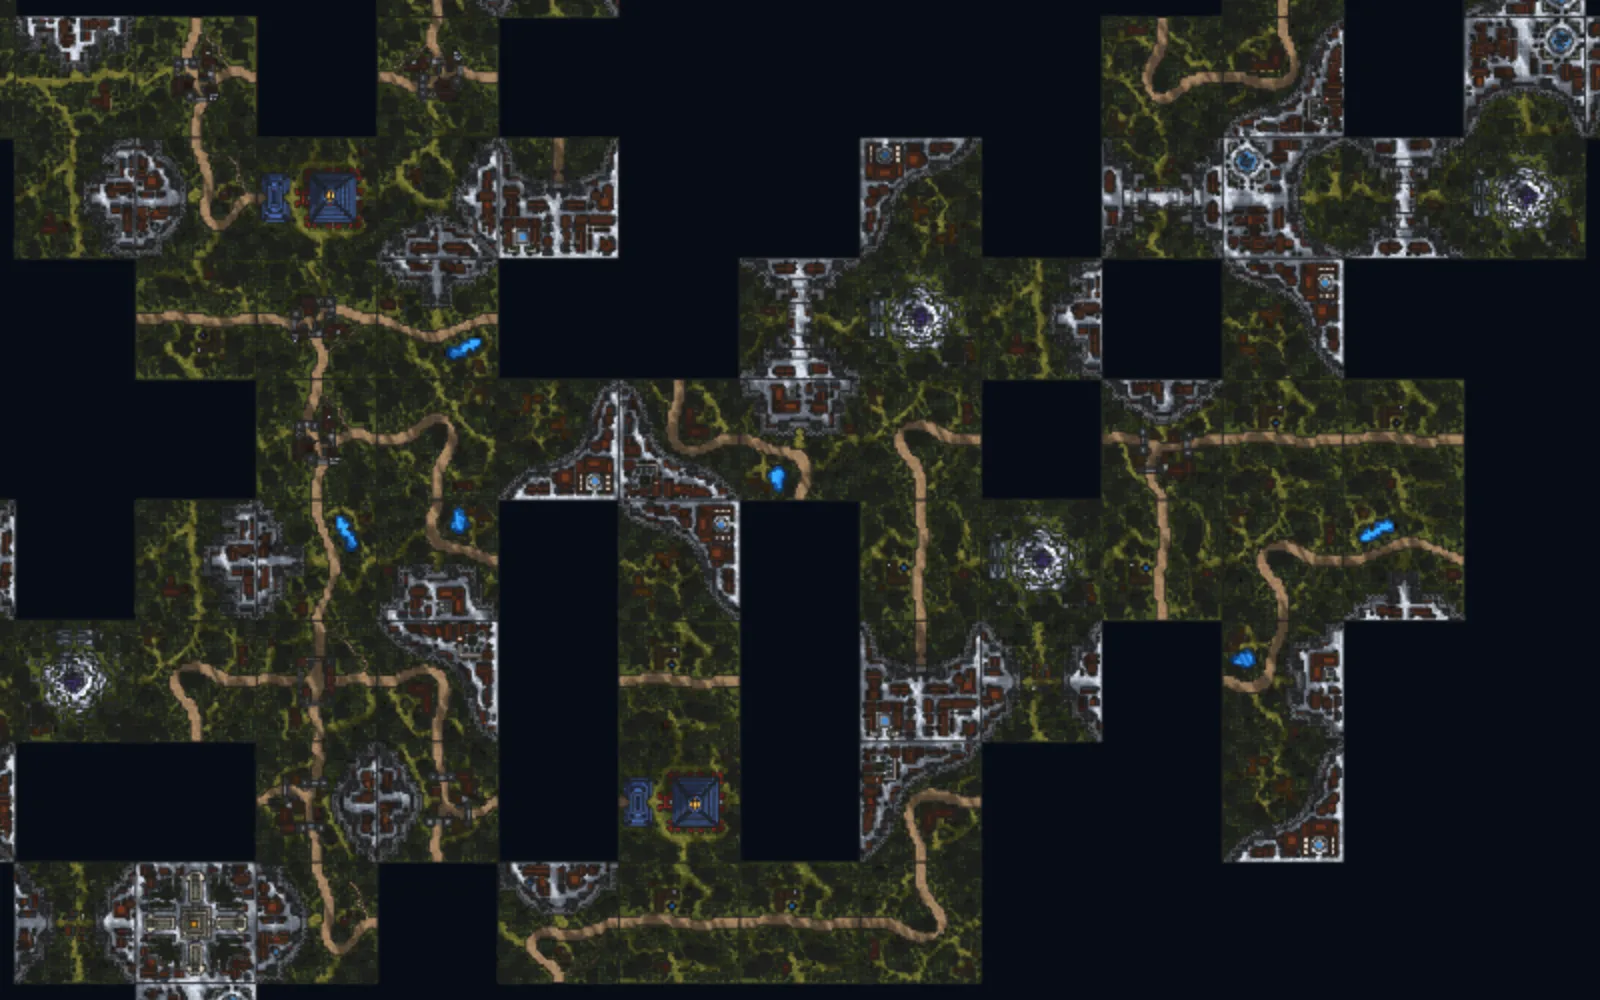
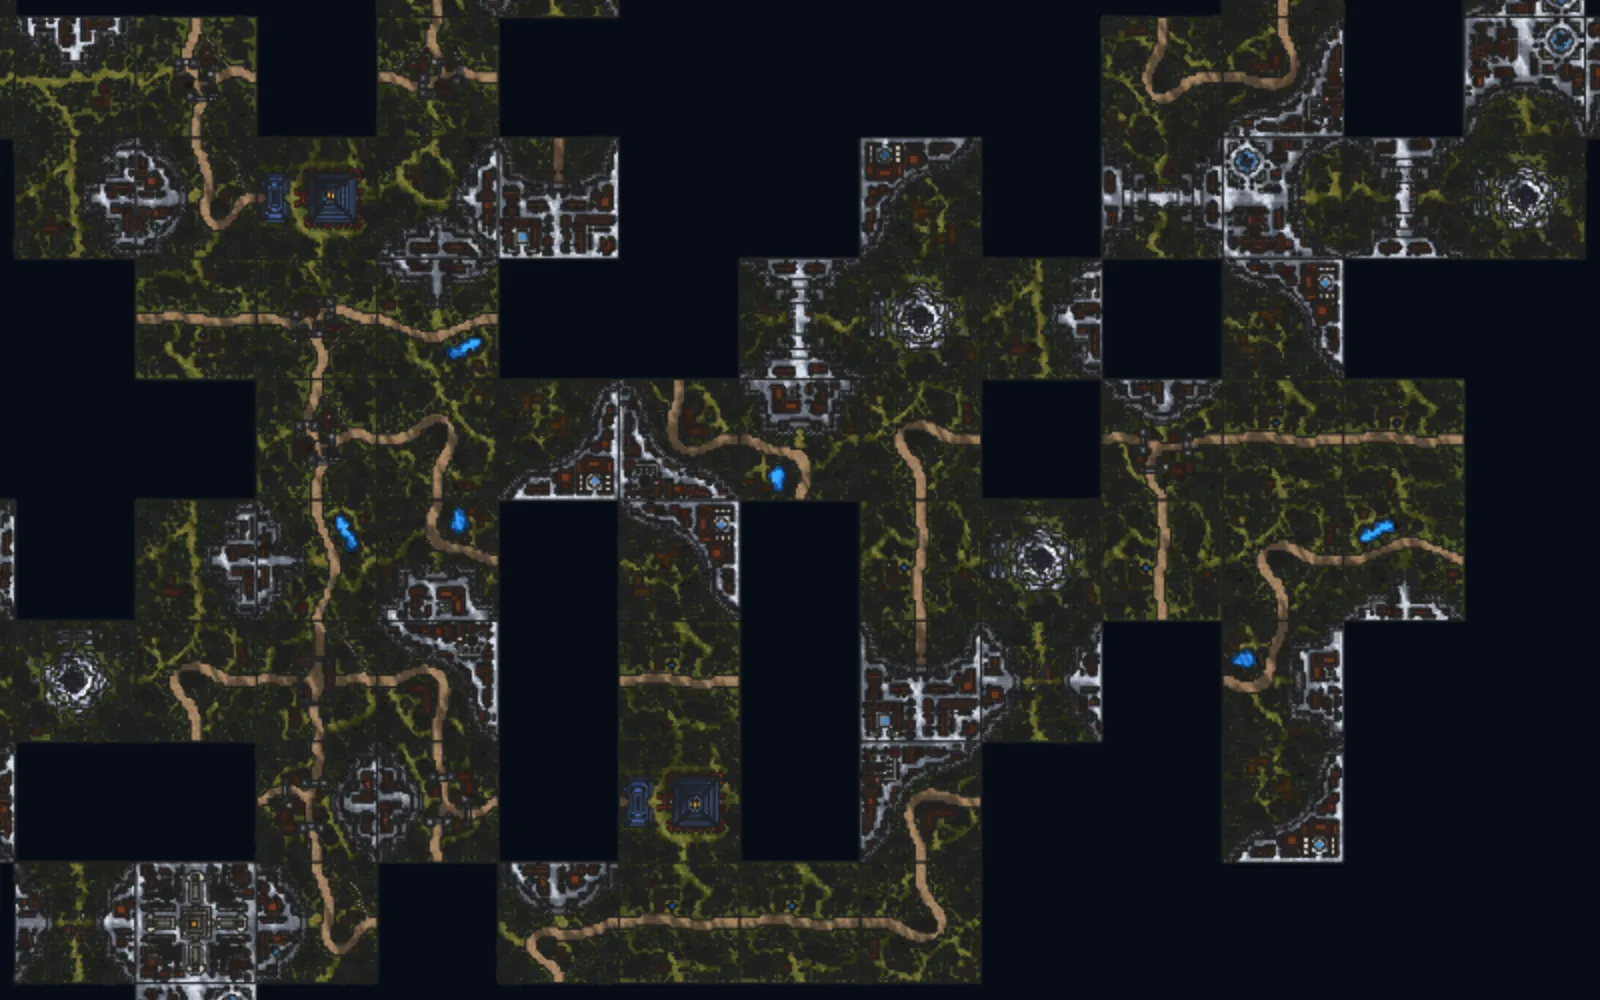
R-VIS: outlines off at 44 px a tile and fully on at 60 (PM ruling: shown at a phone's opening view); captures retaken

diff --git a/packages/app/src/stories/renderer/outlines-comparison.stories.tsx b/packages/app/src/stories/renderer/outlines-comparison.stories.tsx
@@ -137,7 +137,7 @@ const VIS_ROWS: Row[] = [
   {
     key: "desk-default",
     title: "Desktop, the opening view (a tile about 60 px)",
-    note: "1440 x 900 at DPR 2, distance 240 straight down; the centre 800 x 500 CSS px at 1:1. Before: diagonal shadow-acne bands in every lit face and 1 px black lines at 16 %. After: a flat tint per face, and dark grey hairlines at 69 % (off at 52 px a tile, fully on at 64).",
+    note: "1440 x 900 at DPR 2, distance 240 straight down; the centre 800 x 500 CSS px at 1:1. Before: diagonal shadow-acne bands in every lit face and 1 px black lines at 16 %. After: a flat tint per face, and dark grey hairlines, fully on (off at 44 px a tile, fully on at 60).",
     captures: [
       { label: "Before (main)", src: visBeforeDeskDefault },
       { label: "After (R-VIS)", src: visAfterDeskDefault },
@@ -158,8 +158,8 @@ const VIS_ROWS: Row[] = [
   },
   {
     key: "desk-out",
-    title: "Desktop, zoomed out: the outlines vanish (a tile 48 px)",
-    note: "Distance 300, tilted: under the 52 px off size, so no outlines either side; only the shading changes.",
+    title: "Desktop, fully zoomed out (a tile 48 px)",
+    note: "Distance 300, tilted, the farthest: the outlines are at 27 % here (off at 44 px, which a 900 px high window never reaches).",
     captures: [
       { label: "Before (main)", src: visBeforeDeskOut },
       { label: "After (R-VIS)", src: visAfterDeskOut },
@@ -170,7 +170,7 @@ const VIS_ROWS: Row[] = [
   {
     key: "m360-default",
     title: "360 px wide, the opening view (a tile about 52 px)",
-    note: "360 x 780 at DPR 3, distance 240; the centre 360 x 450 CSS px at 1:1. A phone's shorter viewport makes a tile 52 px wide here: the outlines are at the off size (2 %), so in effect none.",
+    note: "360 x 780 at DPR 3, distance 240; the centre 360 x 450 CSS px at 1:1. A phone's shorter viewport makes a tile 52 px wide here: the outlines show at 52 % (off at 44 px a tile, fully on at 60).",
     captures: [
       { label: "Before (main)", src: visBeforeM360Default },
       { label: "After (R-VIS)", src: visAfterM360Default },
@@ -191,8 +191,8 @@ const VIS_ROWS: Row[] = [
   },
   {
     key: "m360-out",
-    title: "360 px wide, zoomed out (a tile 42 px)",
-    note: "Distance 300, tilted: no outlines either side.",
+    title: "360 px wide, zoomed out: the outlines vanish (a tile 42 px)",
+    note: "Distance 300, tilted: under the 44 px off size, so no outlines either side.",
     captures: [
       { label: "Before (main)", src: visBeforeM360Out },
       { label: "After (R-VIS)", src: visAfterM360Out },
@@ -244,6 +244,6 @@ export const BeforeAndAfter: Story = {};
 
 /**
  * R-VIS (headless Chrome on the Mac's GPU, ANGLE Metal): the shading's acne removed by the shadow map's biases, and the
- * outlines as voxel-width, antialiased, dark grey strokes fading between 52 and 64 px a tile.
+ * outlines as voxel-width, antialiased, dark grey strokes fading between 44 and 60 px a tile.
  */
 export const ShadingAndOutlines: Story = { args: { rows: VIS_ROWS } };

diff --git a/packages/renderer/__tests__/outlines.test.ts b/packages/renderer/__tests__/outlines.test.ts
@@ -96,23 +96,26 @@ describe("outlineStroke: the zoom-to-stroke function", () => {
     expect(outlineStroke(60.5, step)).toEqual({ width: 1, opacity: 1 });
   });
 
-  it("defaults: off at 52 px a tile, about two thirds at the game's opening view of a 900 px window, on at 64 px, a hairline, dark grey", () => {
+  it("defaults: off at 44 px a tile, half on at a phone's opening view, fully on at 60 px (a 900 px window's), a hairline, dark grey", () => {
     const camera = new THREE.PerspectiveCamera(50, 1.6, 1, 2000);
     camera.zoom = 5;
     expect(DEFAULT_OUTLINE_SETTINGS).toEqual({
       enabled: true,
-      fadeOffTilePx: 52,
-      fadeFullTilePx: 64,
+      fadeOffTilePx: 44,
+      fadeFullTilePx: 60,
       widthVoxels: 0.015,
       minWidthDevicePx: 1,
       maxWidthPx: 2,
       color: "#1f1f1f",
     });
-    expect(outlineStroke(52).opacity).toBe(0);
-    const opening = outlineStroke(tilePixels(camera, 240, 900));
-    expect(opening.opacity).toBeGreaterThan(0.6);
-    expect(opening.opacity).toBeLessThan(0.75);
-    expect(outlineStroke(64)).toEqual({ width: 1, opacity: 1 });
+    expect(outlineStroke(44).opacity).toBe(0);
+    // The opening view (distance 240) on a 360 x 780 phone: a tile about 52 px, half on.
+    const phone = outlineStroke(tilePixels(camera, 240, 780));
+    expect(phone.opacity).toBeGreaterThan(0.4);
+    expect(phone.opacity).toBeLessThan(0.6);
+    // In a 900 px high window: a tile about 60 px, fully on.
+    expect(outlineStroke(tilePixels(camera, 240, 900))).toEqual({ width: 1, opacity: 1 });
+    expect(outlineStroke(60)).toEqual({ width: 1, opacity: 1 });
     // Fully zoomed in (distance 5) at DPR 2 the world width (about 2.2 device px) is past the hairline, under the cap.
     const zoomedIn = outlineStroke(tilePixels(camera, 5, 900), DEFAULT_OUTLINE_SETTINGS, 2);
     expect(zoomedIn.width).toBeGreaterThan(1);

diff --git a/packages/renderer/src/core/outlines.ts b/packages/renderer/src/core/outlines.ts
@@ -48,10 +48,11 @@ export const MIN_OUTLINE_OPACITY = 1 / 255;
 
 export const DEFAULT_OUTLINE_SETTINGS: OutlineSettings = {
   enabled: true,
-  // The PM's ruling (2026-10-15, R-VIS): off at 52 px a tile, fully on at 64. The game opens at about 60 px a tile in a
-  // 900 px high window, where they show at two thirds.
-  fadeOffTilePx: 52,
-  fadeFullTilePx: 64,
+  // The PM's ruling (2026-10-15, R-VIS): off at 44 px a tile, fully on at 60, so the outlines show at the game's
+  // opening view on a phone too (about 52 px a tile at 360 x 780, half on) and are fully on in a 900 px high window
+  // (about 60 px a tile).
+  fadeOffTilePx: 44,
+  fadeFullTilePx: 60,
   // The owner's proposal, 1 to 2 % of a voxel: 1.5 %. That is under a device pixel until a voxel is about 33 CSS px wide
   // at DPR 2 (a tile about 1,300 px), so over most of the zoom range the outlines are one-device-pixel hairlines.
   widthVoxels: 0.015,

diff --git a/docs/client/STATUS.md b/docs/client/STATUS.md
@@ -271,4 +271,4 @@ The controller notice (D-15) is shown at body size (1rem), in normal flow below 
 
 2026-10-15, Client v2 P1 (t-0291): the app shell is on the routes: every route of section 6.1 renders in its layout (the scenes' sticky `AppNav` on tab pages, the `TopBar` with Back on full-screen flows), the active tab comes from each route's `handle` (`useMatches`), the old links redirect and `?ref=` is kept across links and redirects, pages are lazy chunks behind the loading scene, each route has an `errorElement` (`Notice`), `/welcome` shows on the first visit (`welcomed` flag, storage-off safe; Connect marks the visit and goes Home until P6), and the app's `Toaster` is mounted once; the pages not wired yet are still placeholders.
 2026-10-15, P2 (t-0292): the sessions move into `@paved/game-core` (`src/sessions/`: `PageSession`, `LocalSession` and its save, the tutorial run and its save, formats unchanged, a save written before the move resumes); `LocalSession` and the new `TutorialRun` keep their engine between moves and replay only to resume, the tutorial page follows a `TutorialRun`; the v2 app gets `src/data/` (query keys in one module, the TanStack Query hooks of section 6.4 over `@paved/chain` and the indexer, each returning its scene's type, checked at compile time; the Training board session), tested on the chain's fakes and the fixture indexer, no polling.
-2026-10-15, R-VIS Client v2 (t-0304): the shading's diagonal bands were shadow acne (no bias), fixed with the light's `normalBias` 0.1 and `bias` -0.001; the outlines are drawn by the renderer's own antialiased shader, `widthVoxels` 0.015 of a voxel (hairline floor 1 device px, cap 2 CSS px), `#1f1f1f`, off at 52 px a tile and fully on at 64, hidden below 1/255; the canvas follows its container and the device pixel ratio (`setSize(w, h, false)`, container `ResizeObserver`, `matchMedia`). PR #437.
+2026-10-15, R-VIS Client v2 (t-0304): the shading's diagonal bands were shadow acne (no bias), fixed with the light's `normalBias` 0.1 and `bias` -0.001; the outlines are drawn by the renderer's own antialiased shader, `widthVoxels` 0.015 of a voxel (hairline floor 1 device px, cap 2 CSS px), `#1f1f1f`, off at 44 px a tile and fully on at 60 (shown at a phone's opening view), hidden below 1/255; the canvas follows its container and the device pixel ratio (`setSize(w, h, false)`, container `ResizeObserver`, `matchMedia`). PR #437.

diff --git a/docs/client/v2-architecture.md b/docs/client/v2-architecture.md
@@ -849,9 +849,10 @@ under a device pixel is drawn one pixel wide at that share of its opacity. Segme
 so a straight edge split into many segments covers each pixel once. The width is set in the world:
 `widthVoxels` (0.015, the owner's 1 to 2 % of a voxel; a tile is 40 voxels of 0.075 world units) at the
 camera's target, at least `minWidthDevicePx` (1, a hairline) and at most `maxWidthPx` (2 CSS px, the cap
-zoomed in). The opacity is linear from off at `fadeOffTilePx` (52) to fully on at `fadeFullTilePx` (64), and
-the material is hidden below 1/255; the game's opening view (about 60 px a tile in a 900 px high window)
-shows them at about two thirds. The colour is `color`, `#1f1f1f` on screen (the composer copies its linear
+zoomed in). The opacity is linear from off at `fadeOffTilePx` (44) to fully on at `fadeFullTilePx` (60), and
+the material is hidden below 1/255 (the PM's ruling: outlines show at a phone's opening view). The game's
+opening view shows them fully in a 900 px high window (about 60 px a tile) and half on a 360 x 780 phone
+(about 52 px); a 900 px window's farthest zoom (distance 300, 48 px) keeps them at a quarter. The colour is `color`, `#1f1f1f` on screen (the composer copies its linear
 target to the canvas without an sRGB encoding, so the CSS channels go to the shader unchanged).
 `fadeThresholdTilePx`, `fadeRangeTilePx`, `minWidthPx` and `maxWidthTilePx` are gone.
 
